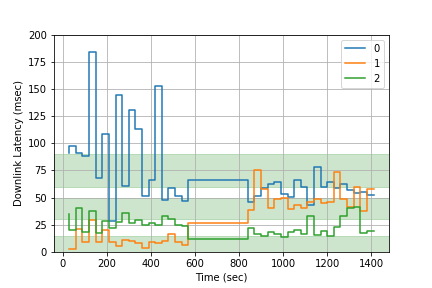
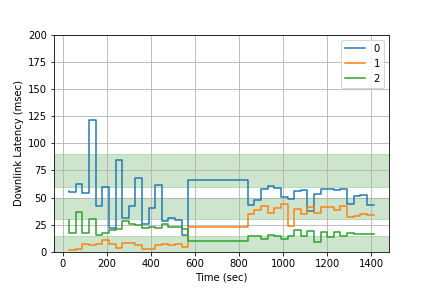
Replot RES129287 after trimming first/last 5%ile

Changed region(s): [[0.1505, 0.1562, 0.8727, 0.875], [0.1505, 0.5, 0.1806, 0.5312]]

diff --git a/analysis/cell_order_log_analysis.py b/analysis/cell_order_log_analysis.py
@@ -77,8 +77,11 @@ def summarize_over_sla_period(raw_data, period, outlier_percentile = 5):
                 raw_data[s_idx]['ts_sec'].append(cur_ts + period)
 
                 lat_filter = np.logical_and(raw_data[s_idx]['raw_lat_msec'][cur_idx_filter] <= np.percentile(raw_data[s_idx]['raw_lat_msec'][cur_idx_filter], 100 - outlier_percentile),
-                                            raw_data[s_idx]['raw_lat_msec'][cur_idx_filter] > np.percentile(raw_data[s_idx]['raw_lat_msec'][cur_idx_filter], outlier_percentile))
-                raw_data[s_idx]['lat_msec'].append(np.mean(raw_data[s_idx]['raw_lat_msec'][cur_idx_filter][lat_filter]))
+                                            raw_data[s_idx]['raw_lat_msec'][cur_idx_filter] >= np.percentile(raw_data[s_idx]['raw_lat_msec'][cur_idx_filter], outlier_percentile))
+                if (lat_filter.any()):
+                    raw_data[s_idx]['lat_msec'].append(np.mean(raw_data[s_idx]['raw_lat_msec'][cur_idx_filter][lat_filter]))
+                else:
+                    raw_data[s_idx]['lat_msec'].append(0.)
                 raw_data[s_idx]['tx_mbps'].append(np.mean(raw_data[s_idx]['raw_tx_mbps'][cur_idx_filter]))
                 raw_data[s_idx]['buf_bytes'].append(np.mean(raw_data[s_idx]['raw_buf_bytes'][cur_idx_filter]))
             cur_ts += period
